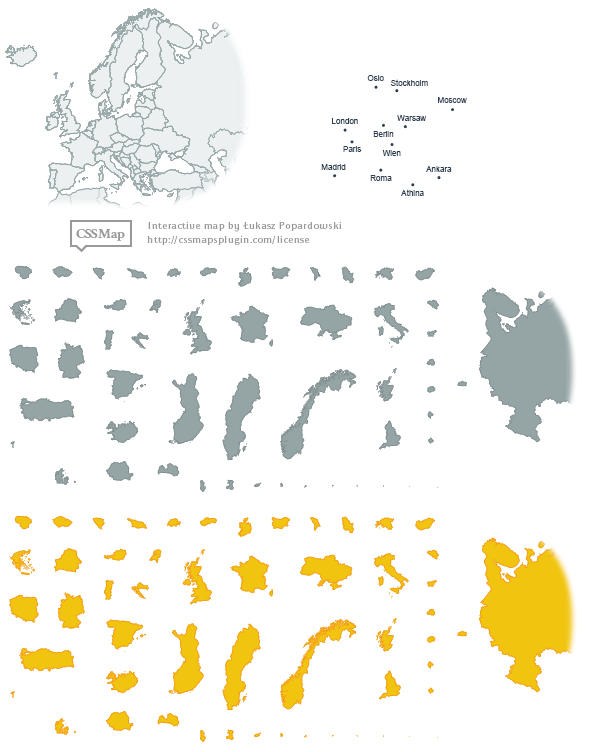
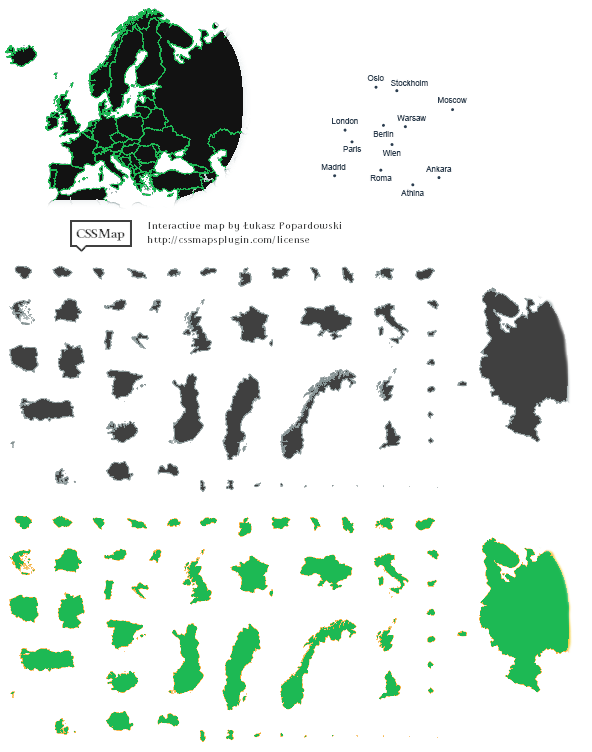
Image doenst scale anymore
fixed so image is always the 850

diff --git a/index2.html b/index2.html
@@ -23,9 +23,9 @@
         $(document).ready(function(){
         
         $("#map-europe").CSSMap({
-            "mapStyle": "vintage",
+            "mapStyle": "default",
             "tooltips": false,
-            "size": 960,
+            "size": 850,
             "agentsList": {
                 "enable": true,
                 "agentsListId": "#demo-agents",

diff --git a/layout.css b/layout.css
@@ -1,6 +1,8 @@
 #interactivemap{
     top: 0px;
     left: 0px;
+    width: 860px;
+    min-width: 860px;
 }
 
 .logo{
@@ -18,6 +20,7 @@
   width: 100%;
   height: 100%;
   position: absolute;
+  
   /* scrollbar management */
   overflow-y:scroll;
   scrollbar-width: none;
